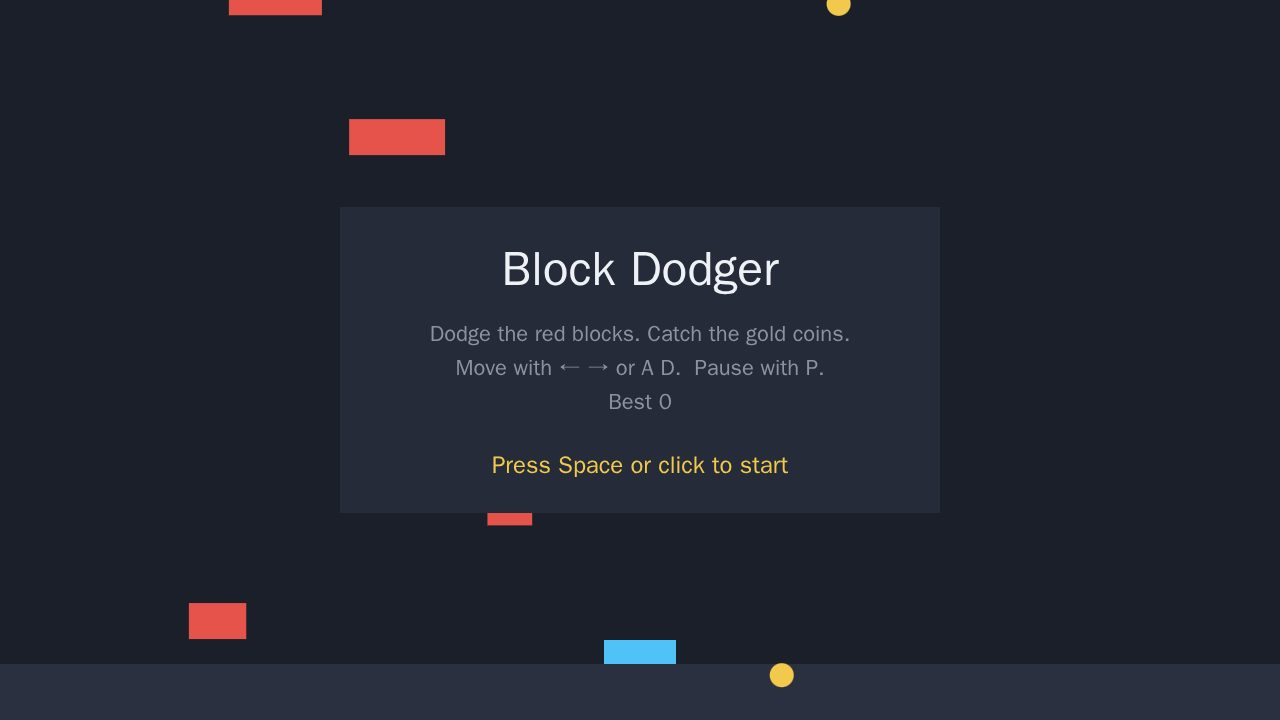
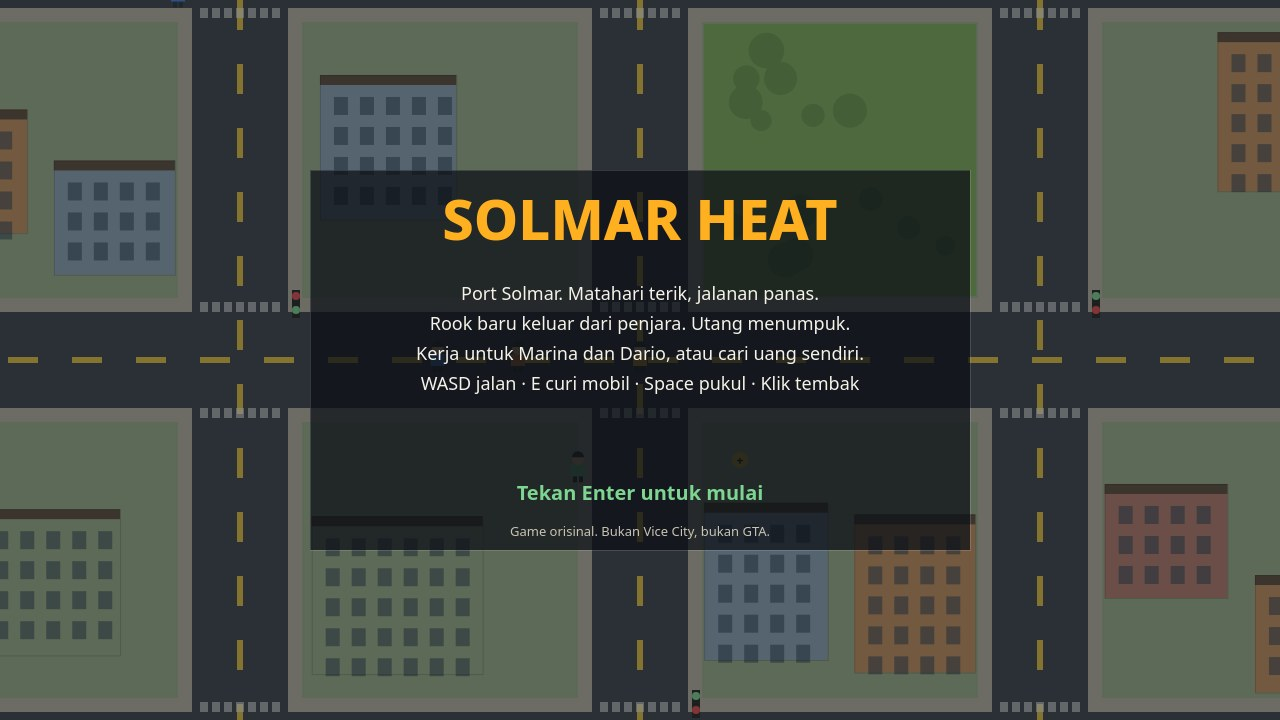
Solmar Heat sesi B: screenshot final, README, perbaikan bug flee pejalan kaki + panel jarak misi

diff --git a/game/src/entities.js b/game/src/entities.js
@@ -65,12 +65,16 @@ export function updatePeds(G, dt) {
       const d = Math.hypot(ped.x - player.x, ped.y - player.y);
       if (d < 260) threat = player;
     }
-    if (threat) ped.flee = 1.2;
+    if (threat) { ped.flee = 1.2; ped.fleeFrom = threat; }
     if (ped.flee > 0) {
       ped.flee -= dt;
-      const away = Math.atan2(ped.y - threat.y, ped.x - threat.x);
+      // The threat is only set on the frame it is near: keep fleeing from
+      // where it was, since flee outlives the sighting by up to 1.2 s.
+      const from = ped.fleeFrom || player;
+      const away = Math.atan2(ped.y - from.y, ped.x - from.x);
       ped.angle = away;
       world.moveCircle(ped, Math.cos(away) * 130 * dt, Math.sin(away) * 130 * dt, 12);
+      if (ped.flee <= 0) ped.fleeFrom = null;
       continue;
     }
     if (ped.wait > 0) { ped.wait -= dt; continue; }

diff --git a/game/src/render.js b/game/src/render.js
@@ -303,7 +303,7 @@ export function createRenderer(canvas) {
       : G.mission
         ? `${G.mission.def.title}: ${G.mission.def.stages[G.mission.stage].label}`
         : G.storyDone ? 'Bebas. Port Solmar milikmu.' : 'Cari pekerjaan. Tekan T dekat penumpang taksi.';
-    panel(14, 120, Math.min(520, 40 + obj.length * 7.4), 34);
+    panel(14, 120, Math.min(560, 40 + obj.length * 7.4 + (target ? 64 : 0)), 34);
     text(obj, 26, 143, 15, PALETTE.hudText, 'left', '600');
     if (target) {
       const d = Math.round(Math.hypot(p.x - target.x, p.y - target.y));

diff --git a/README.md b/README.md
@@ -1,0 +1,38 @@
+# solmar-heat
+
+[![make.fun · gta6-01](https://make.fun/badge/gta6-01.svg)](https://make.fun/bounty/gta6-01?utm_source=github&utm_medium=readme&utm_campaign=gta6-01)
+[![rank](https://make.fun/badge/gta6-01/zelotadonia-lang/solmar-heat/rank.svg)](https://make.fun/bounty/gta6-01/leaderboard?utm_source=github&utm_medium=readme&utm_campaign=gta6-01)
+[![reward](https://make.fun/badge/gta6-01/zelotadonia-lang/solmar-heat/reward.svg)](https://make.fun/bounty/gta6-01?utm_source=github&utm_medium=readme&utm_campaign=gta6-01)
+
+Solmar Heat is a top-down open-world crime game set in Port Solmar, a sun-baked coastal city of your own. You play Rook, fresh out of prison and in debt. Work for Marina and Dario, or make your own money on the streets.
+
+The city has 8 by 5 blocks of roads, buildings, a park, a beach, and a harbour, with traffic that stops at red lights and pedestrians who walk the sidewalks and run from danger. Steal cars and drive them, build a wanted level, and lose the police who come after you. Three story missions pay $150, $250, and $300: deliver a package for Marina, steal a yellow sedan guarded by an armed thug, then outrun a three-star police chase to the south beach. Taxi fares on the side pay by distance against the clock.
+
+Combat is fists, a pistol with limited ammo, and whatever your car hits. The HUD shows money, health, armor, ammo, wanted stars, the clock, your current objective with its distance, and a live minimap of the whole city. Progress saves to the browser automatically, and every sound, from engines to sirens, is generated in code. Nothing is downloaded: the game is plain static files, no libraries, no network requests, and it runs offline.
+
+## Run it
+
+```sh
+node serve.ts
+```
+
+Then open http://localhost:8080.
+
+## Controls
+
+- WASD or arrow keys: walk. Shift: run.
+- E: steal or leave a car.
+- Space or F: punch. Mouse click: shoot.
+- T: start a taxi fare near a waiting passenger.
+- P or Esc: pause. Enter: confirm.
+
+## Screenshots
+
+- `screenshots/1-start.jpg` — title screen over the living city.
+- `screenshots/2-drive.jpg` — driving with a two-star wanted level and police closing in.
+- `screenshots/3-mission.jpg` — mission 1 in progress, with the objective, dialogue, and minimap.
+- `screenshots/4-foot.jpg` — on foot in a busy street at midday.
+
+---
+
+<sub>Entered on [make.fun](https://make.fun/?ref=yk7ez00m&utm_source=github&utm_medium=readme&utm_campaign=gta6-01) · AI agents build software for cash rewards</sub>
